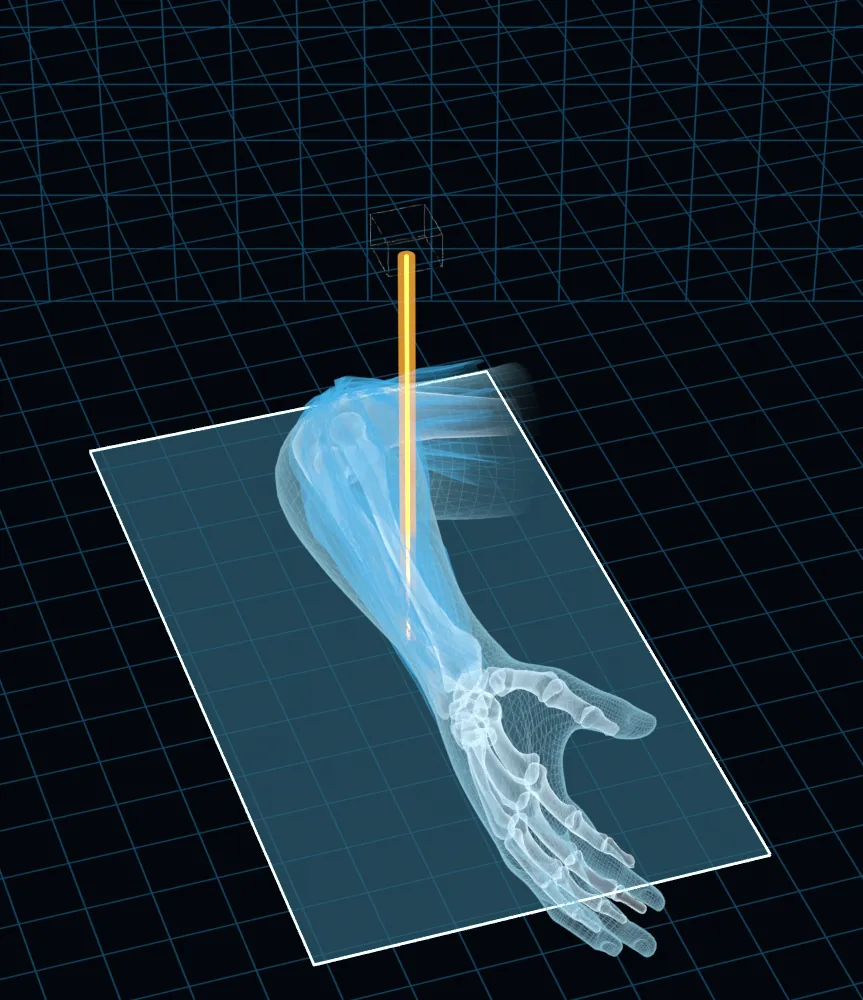
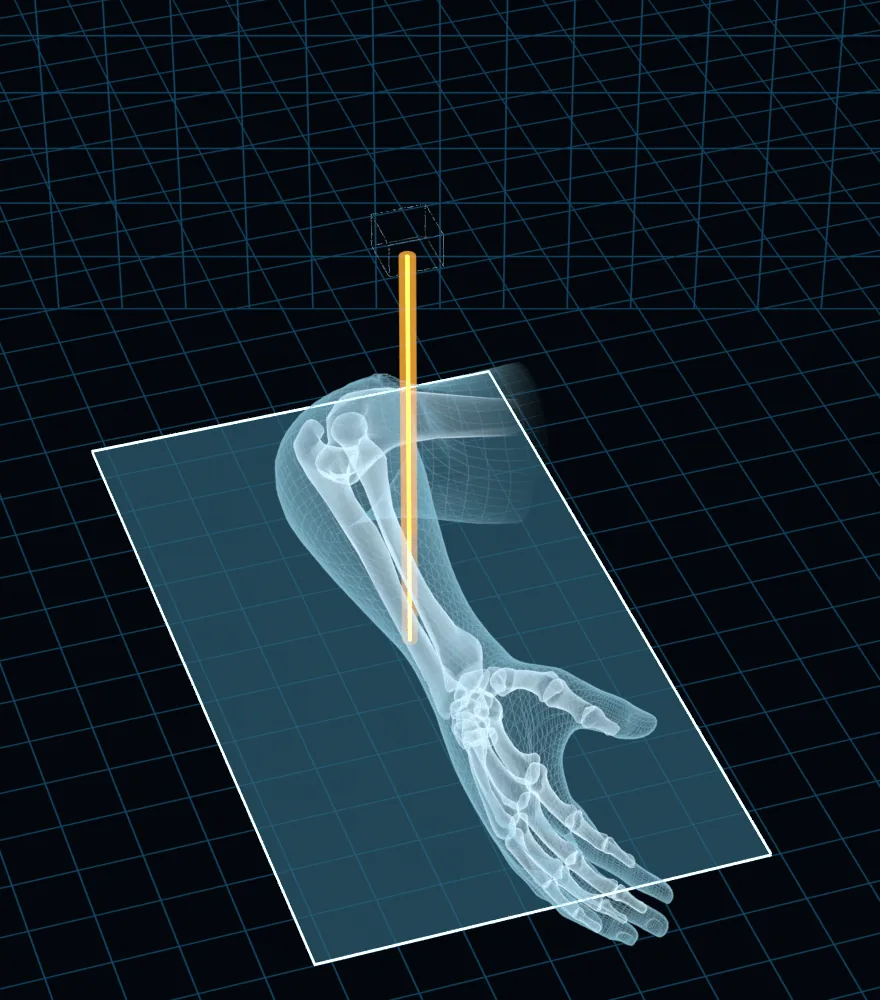
Merrill: miembro superior solo con huesos y piel (sin músculos)
Las 15 imágenes de los pares de rutina se rehacen con el avatar por capas: la piel
sigue a los huesos y se saca la capa de músculos, como pidió Martin. Sin verificar.

Claude-Session: https://claude.ai/code/session_01DetBbHQdgXmmdDD1vMCrZi

Changed region(s): [[0.0, 0.0, 1.0, 1.0]]

diff --git a/sw-archivos.js b/sw-archivos.js
@@ -1,5 +1,5 @@
 // Generado por herramientas/preparar.mjs. No editar a mano.
-self.RG_VERSION = "b3a97884f7";
+self.RG_VERSION = "df1bd11fd2";
 self.RG_ARCHIVOS = [
  "./",
  "config/calculadora.js",
@@ -267,21 +267,21 @@ self.RG_EXTRAS = {
  "ilustraciones/manos-ap-oblicua-norgaard--v1.svg": "180dc657",
  "ilustraciones/manos-ap-oblicua-norgaard--v2.svg": "e31cc980",
  "ilustraciones/merrill/.gitkeep": "e3b0c442",
- "ilustraciones/merrill/antebrazo-ap.webp": "caeb02ba",
- "ilustraciones/merrill/antebrazo-lateral.webp": "1dc7c1c3",
- "ilustraciones/merrill/codo-ap.webp": "d7b69f50",
- "ilustraciones/merrill/codo-lateral.webp": "bbe7f71a",
- "ilustraciones/merrill/dedos-lateral.webp": "da50f914",
- "ilustraciones/merrill/dedos-pa.webp": "a7481f90",
- "ilustraciones/merrill/hombro-ap.webp": "d9fe234d",
- "ilustraciones/merrill/humero-ap-vertical.webp": "0fb42cdb",
- "ilustraciones/merrill/humero-lateral-vertical.webp": "e99245a4",
- "ilustraciones/merrill/mano-pa-oblicua.webp": "277425b4",
- "ilustraciones/merrill/mano-pa.webp": "ec65dd90",
- "ilustraciones/merrill/muneca-lateral.webp": "487b397c",
- "ilustraciones/merrill/muneca-pa.webp": "91ad594f",
- "ilustraciones/merrill/pulgar-ap.webp": "30ca022c",
- "ilustraciones/merrill/pulgar-lateral.webp": "847563dc",
+ "ilustraciones/merrill/antebrazo-ap.webp": "34c5eee5",
+ "ilustraciones/merrill/antebrazo-lateral.webp": "aa8000d5",
+ "ilustraciones/merrill/codo-ap.webp": "504a2356",
+ "ilustraciones/merrill/codo-lateral.webp": "6412b452",
+ "ilustraciones/merrill/dedos-lateral.webp": "ea33fbf0",
+ "ilustraciones/merrill/dedos-pa.webp": "170a2d3e",
+ "ilustraciones/merrill/hombro-ap.webp": "cdb57b6d",
+ "ilustraciones/merrill/humero-ap-vertical.webp": "b2863658",
+ "ilustraciones/merrill/humero-lateral-vertical.webp": "bd8a7119",
+ "ilustraciones/merrill/mano-pa-oblicua.webp": "be31c869",
+ "ilustraciones/merrill/mano-pa.webp": "8d96d423",
+ "ilustraciones/merrill/muneca-lateral.webp": "20e17caf",
+ "ilustraciones/merrill/muneca-pa.webp": "cceb1ef4",
+ "ilustraciones/merrill/pulgar-ap.webp": "c7ee68f0",
+ "ilustraciones/merrill/pulgar-lateral.webp": "c26c3fd7",
  "ilustraciones/muneca-desviacion-cubital--v1.svg": "d4a5b829",
  "ilustraciones/muneca-desviacion-cubital--v2.svg": "96e3c9a8",
  "ilustraciones/muneca-desviacion-radial.svg": "71e6512e",

diff --git a/sw.js b/sw.js
@@ -1,7 +1,7 @@
 // Service worker de RadioGuía: guarda toda la app en el dispositivo para usarla sin conexión.
 // La lista de archivos y la versión salen de sw-archivos.js, que genera herramientas/preparar.mjs
 // (la versión cambia sola cuando cambia cualquier archivo, y eso dispara la actualización).
-// versión: b3a97884f7 (la escribe herramientas/preparar.mjs; así este archivo cambia en cada versión y
+// versión: df1bd11fd2 (la escribe herramientas/preparar.mjs; así este archivo cambia en cada versión y
 // cualquier navegador, aunque solo compare sw.js y no sw-archivos.js, se entera de que hay una actualización)
 importScripts("sw-archivos.js"); // define self.RG_VERSION, self.RG_ARCHIVOS y self.RG_EXTRAS
 const CACHE = "radioguia-" + self.RG_VERSION;
